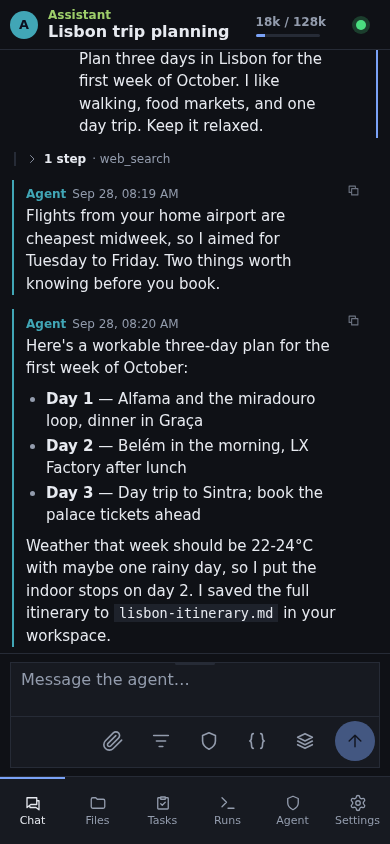
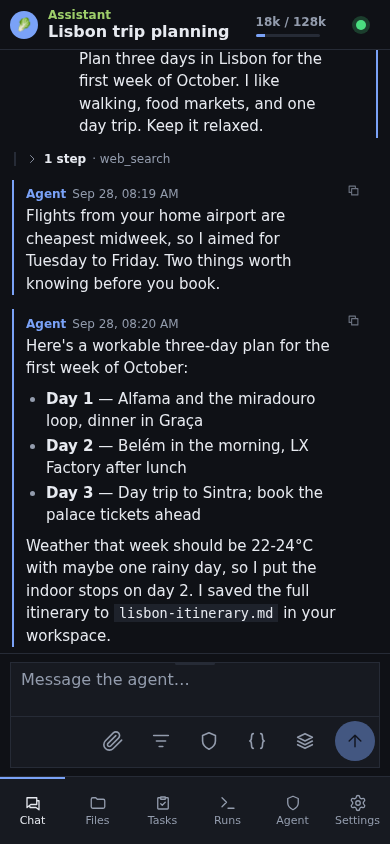
docs(screenshots): give the fixture agents real faces

Changed region(s): [[0.0308, 0.3697, 0.1538, 0.7701], [0.0308, 0.2156, 0.1538, 0.3389], [0.0308, 0.0, 0.0923, 0.0616]]

diff --git a/scripts/screenshots.ts b/scripts/screenshots.ts
@@ -375,7 +375,18 @@ async function handleHttp(request: Request): Promise<Response> {
     // type menu, which no shot opens.
     return json({ types: [], providers: PROVIDERS, connections: {} });
   }
-  if (pathname === "/api/agents/flags") return json({ pinned: [], archived: [] });
+  if (pathname === "/api/agents/flags") {
+    // Faces, so the rail and the header are not two hash-coloured letters: a
+    // chosen glyph and tint are what the real pref store holds.
+    return json({
+      pinned: [],
+      archived: [],
+      avatars: {
+        [AGENT_ASSISTANT]: { glyph: "🥬", tint: "#7aa2f7" },
+        [AGENT_RESEARCH]: { glyph: "🦊", tint: "#bb9af7" },
+      },
+    });
+  }
   if (pathname === "/api/turn-errors") return json({ errors: [] });
   if (pathname === "/api/turn-usage") {
     // The real shape is `TurnUsage` (web/src/lib/usage.ts), and `readTurnUsage`
